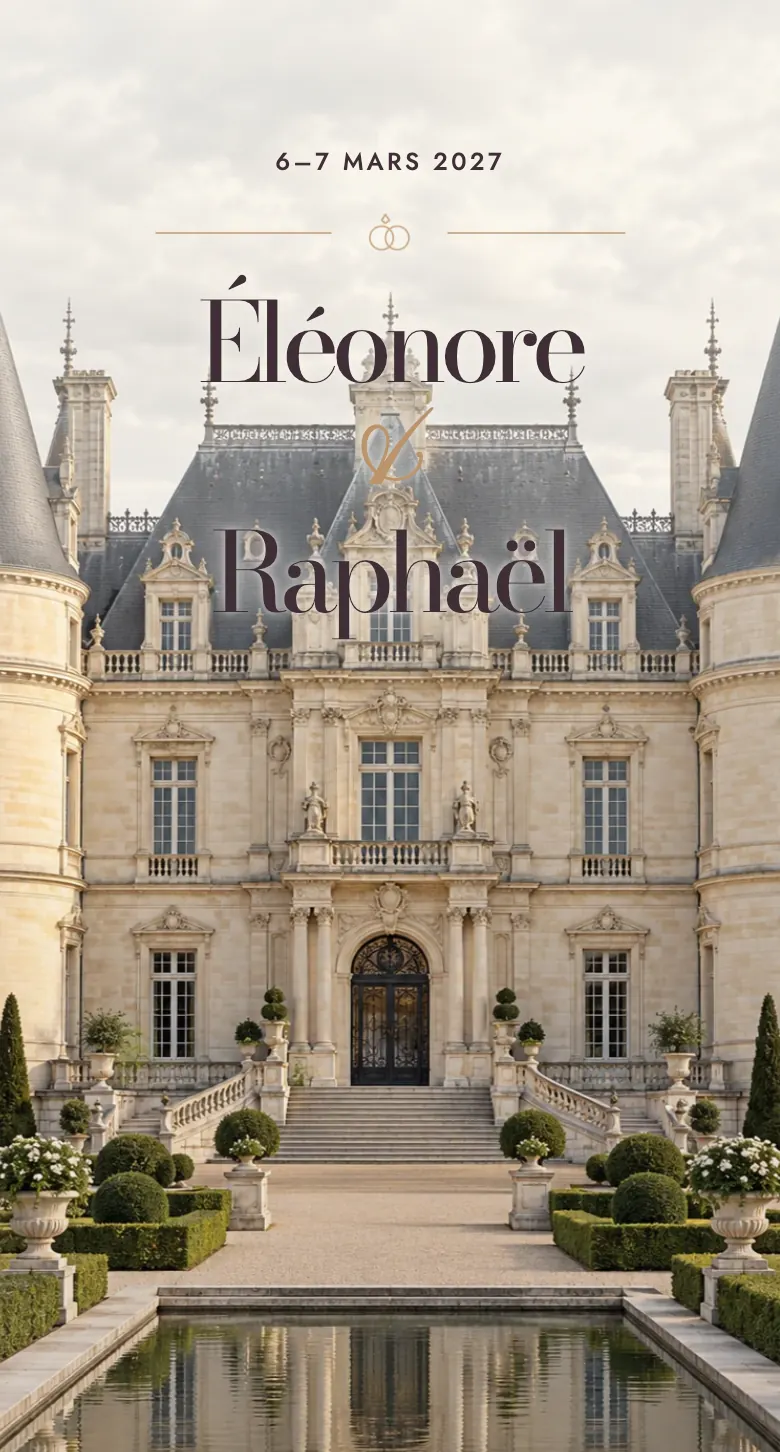
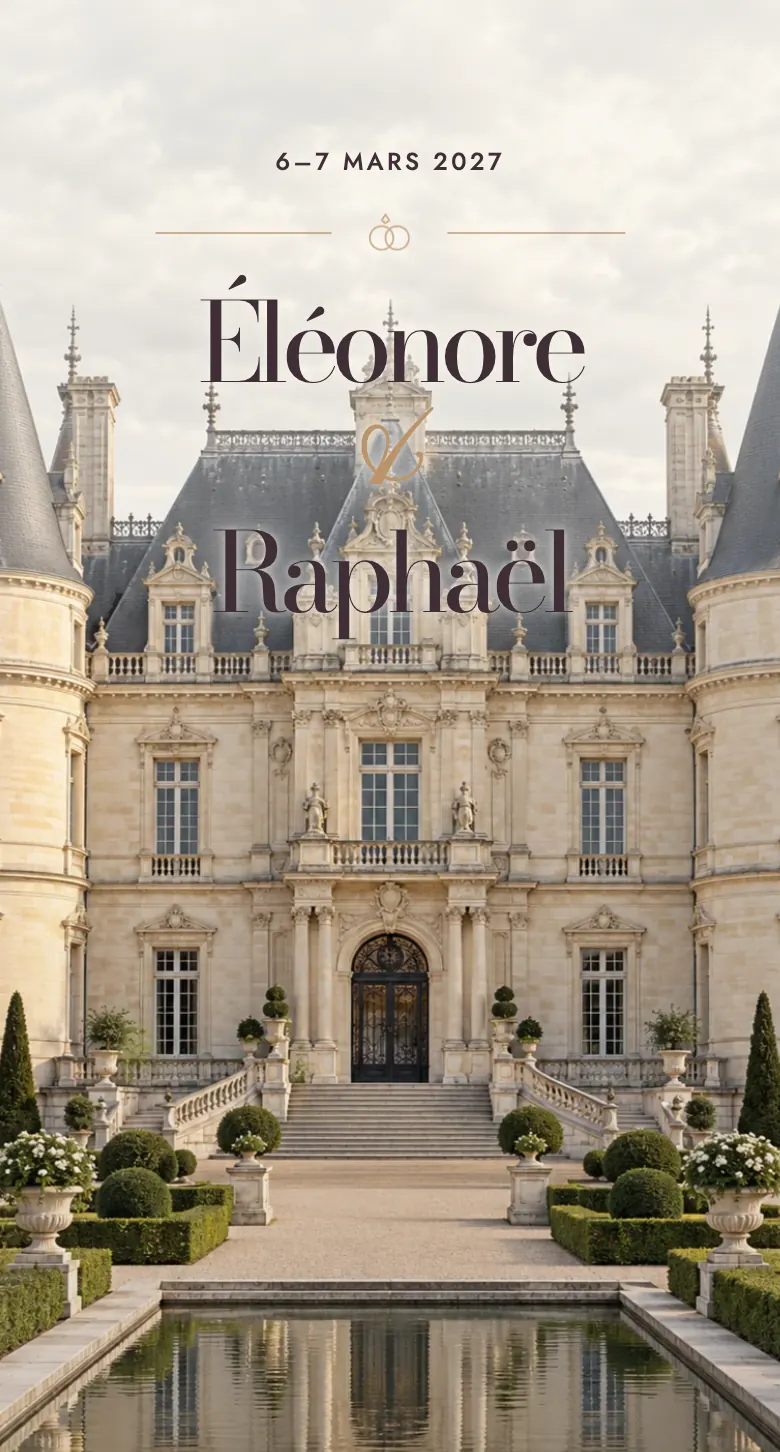
feat(home): all six collections in « Choisissez votre univers », and Château Royal falls into the night on the hero
The step shows every collection in one row (it slides sideways on a phone)
instead of three and a placeholder. On the hero carousel, Château Royal's
card turns from day to night once when it comes to the front, as its real
invitation does, and scrolls on in the night without looping back.

Claude-Session: https://claude.ai/code/session_013uJGKw8HESpHv1CpdQa4ER

diff --git a/landing/src/components/home/HowItWorks.tsx b/landing/src/components/home/HowItWorks.tsx
@@ -15,7 +15,6 @@ import Image from "next/image";
 import { useEffect, useRef } from "react";
 
 import { THEMES } from "./themes";
-import { UpcomingThemeCard } from "./UpcomingThemeCard";
 
 // Card visuals (border gradient, shadow tint) come straight from the studio
 // design tokens — Tailwind v3 has no CSS-variable escape hatch for gradient
@@ -45,17 +44,9 @@ type Step = {
  *
  * Like the two mocks below it, this is an illustration and not a control: the
  * selectable version of this lives in `Preview`, and making one card here
- * clickable would suggest the other three are too.
+ * clickable would suggest the others are too.
  */
-function UniverseMock({
-  label,
-  upcomingTitle,
-  upcomingSubtitle,
-}: {
-  label: string;
-  upcomingTitle: string;
-  upcomingSubtitle: string;
-}) {
+function UniverseMock({ label }: { label: string }) {
   return (
     <div
       style={MOCK_BORDER_STYLE}
@@ -64,14 +55,12 @@ function UniverseMock({
       <p className="mb-4 text-center font-body text-h4 text-studio-violet/70">
         {label}
       </p>
-      {/* Portrait covers, so one row of four rather than the 2×2 grid the
-          landscape swatches needed. The closing card keeps the row even —
-          three themes across four columns would leave a hole. Three themes,
-          not all of them: this pictures the step, it is not the catalogue,
-          and a second row does not fit the stacked card. */}
-      <div className="grid grid-cols-4 gap-2 md:gap-3">
-        {THEMES.slice(0, 3).map((theme, i) => (
-          <div key={theme.id} className="text-center">
+      {/* Every collection, in one row: a second row would sit under the next
+          stacked step card. On a phone the row slides sideways, a peek of the
+          fourth cover saying there is more; from md up all six fit. */}
+      <div className="-mx-5 flex snap-x snap-mandatory scroll-px-5 gap-2 overflow-x-auto px-5 pb-1 pt-1 [scrollbar-width:none] md:mx-0 md:grid md:grid-cols-6 md:gap-3 md:overflow-visible md:px-0 [&::-webkit-scrollbar]:hidden">
+        {THEMES.map((theme, i) => (
+          <div key={theme.id} className="w-[28%] shrink-0 snap-start text-center md:w-auto">
             <div
               className={cn(
                 "relative aspect-[290/540] overflow-hidden rounded-xl",
@@ -83,29 +72,15 @@ function UniverseMock({
                 src={theme.image}
                 alt={theme.name}
                 fill
-                sizes="(min-width: 1024px) 120px, 80px"
+                sizes="(min-width: 1024px) 80px, 100px"
                 className="object-cover"
               />
             </div>
-            <p className="mt-2 truncate font-body text-[11px] text-studio-violet/70">
+            <p className="mt-2 font-body text-[11px] leading-tight text-studio-violet/70">
               {theme.name}
             </p>
           </div>
         ))}
-        <div className="text-center">
-          <div className="relative aspect-[290/540]">
-            <UpcomingThemeCard
-              compact
-              title={upcomingTitle}
-              subtitle={upcomingSubtitle}
-            />
-          </div>
-          {/* Spacer, not a label: holds this card's artwork level with the
-              themed ones, whose names sit on this line. */}
-          <p aria-hidden="true" className="mt-2 font-body text-[11px]">
-            &nbsp;
-          </p>
-        </div>
       </div>
     </div>
   );
@@ -454,8 +429,6 @@ export function HowItWorks() {
     <UniverseMock
       key="universe"
       label={t("universeMockLabel")}
-      upcomingTitle={t("upcomingTitle")}
-      upcomingSubtitle={t("upcomingSubtitle")}
     />,
     <PersonalizeMock
       key="personalize"

diff --git a/landing/src/components/home/HeroCurvedCarousel.tsx b/landing/src/components/home/HeroCurvedCarousel.tsx
@@ -112,6 +112,15 @@ const DWELL_MS = 9000;
 /** Pause before the centre card starts scrolling, so the cover is seen first. */
 const SCROLL_DELAY_S = 1.1;
 
+/** How long a day-to-night card takes to fall into the night. */
+const NIGHTFALL_S = 2.4;
+
+/** Whether a hero card turns from day to night (`nightfall` in `home/themes.ts`). */
+function nightfall(cardId: number): boolean {
+  const theme = THEMES[cardId];
+  return Boolean(theme && "nightfall" in theme && theme.nightfall);
+}
+
 /** How far the centre card scrolls, in card heights. */
 const SCROLL_SCREENS = 2.2;
 
@@ -439,7 +448,8 @@ export function HeroCurvedCarousel({
                   total: CARD_COUNT,
                 })}
                 slideRoleDescription={t("slideRoleDescription")}
-                strip={`/themes/${THEMES[cardId].id}/scroll.webp`}
+                strip={`/themes/${THEMES[cardId].id}/${nightfall(cardId) ? "scroll-night" : "scroll"}.webp`}
+                nightfall={nightfall(cardId)}
                 alt={cardAlts[cardId]?.alt ?? ""}
                 priority={trackIndex === REFERENCE_INDEX}
                 // Scrolls only once the carousel is at rest on it: during the
@@ -505,6 +515,7 @@ function CurvedCard({
   slideLabel,
   slideRoleDescription,
   strip,
+  nightfall = false,
   alt,
   priority,
   live,
@@ -523,6 +534,8 @@ function CurvedCard({
   slideLabel: string;
   slideRoleDescription: string;
   strip: string;
+  /** Day cover, night strip: the strip fades in slowly, once, as dusk. */
+  nightfall?: boolean;
   alt: string;
   priority: boolean;
   live: boolean;
@@ -582,7 +595,9 @@ function CurvedCard({
       />
 
       <AnimatePresence>
-        {live && <ScrollingStrip key="strip" src={strip} cardW={cardW} cardH={cardH} />}
+        {live && (
+          <ScrollingStrip key="strip" src={strip} cardW={cardW} cardH={cardH} nightfall={nightfall} />
+        )}
       </AnimatePresence>
     </motion.div>
   );
@@ -599,16 +614,23 @@ function ScrollingStrip({
   src,
   cardW,
   cardH,
+  nightfall = false,
 }: {
   src: string;
   cardW: number;
   cardH: number;
+  nightfall?: boolean;
 }) {
   const [loaded, setLoaded] = useState(false);
   const stripH = cardW / STRIP_RATIO;
   const travel = Math.min(stripH - cardH, cardH * SCROLL_SCREENS);
+  // A night strip over the day cover: the fade in *is* the fall of night, so
+  // it is slow, and the scroll waits for it. It plays once per arrival and
+  // ends in the night — never back to day.
+  const fadeIn = nightfall ? NIGHTFALL_S : 0.25;
+  const delay = nightfall ? NIGHTFALL_S + 0.3 : SCROLL_DELAY_S;
   // Paced to finish just before the carousel turns, with the delay in front.
-  const duration = DWELL_MS / 1000 - SCROLL_DELAY_S - 0.6;
+  const duration = DWELL_MS / 1000 - delay - 0.6;
 
   return (
     <motion.div
@@ -616,7 +638,7 @@ function ScrollingStrip({
       initial={{ opacity: 0 }}
       animate={{ opacity: loaded ? 1 : 0 }}
       exit={{ opacity: 0, transition: { duration: 0.35 } }}
-      transition={{ duration: 0.25 }}
+      transition={{ duration: fadeIn, ease: "easeInOut" }}
     >
       <motion.img
         src={src}
@@ -627,7 +649,7 @@ function ScrollingStrip({
         style={{ height: stripH }}
         initial={{ y: 0 }}
         animate={loaded ? { y: -travel } : { y: 0 }}
-        transition={{ delay: SCROLL_DELAY_S, duration, ease: [0.45, 0.05, 0.35, 1] }}
+        transition={{ delay, duration, ease: [0.45, 0.05, 0.35, 1] }}
       />
     </motion.div>
   );

diff --git a/landing/src/components/home/themes.ts b/landing/src/components/home/themes.ts
@@ -55,6 +55,9 @@ export const THEMES = [
     name: "Château Royal",
     image: "/themes/chateau-royal/cover.webp",
     statusBar: { background: "#57535b", text: "light" },
+    // Its hero turns from day to night: the hero card falls into the night
+    // once, and scrolls on in it (`scroll-night.webp`).
+    nightfall: true,
   },
   {
     id: "cabo-verde",
